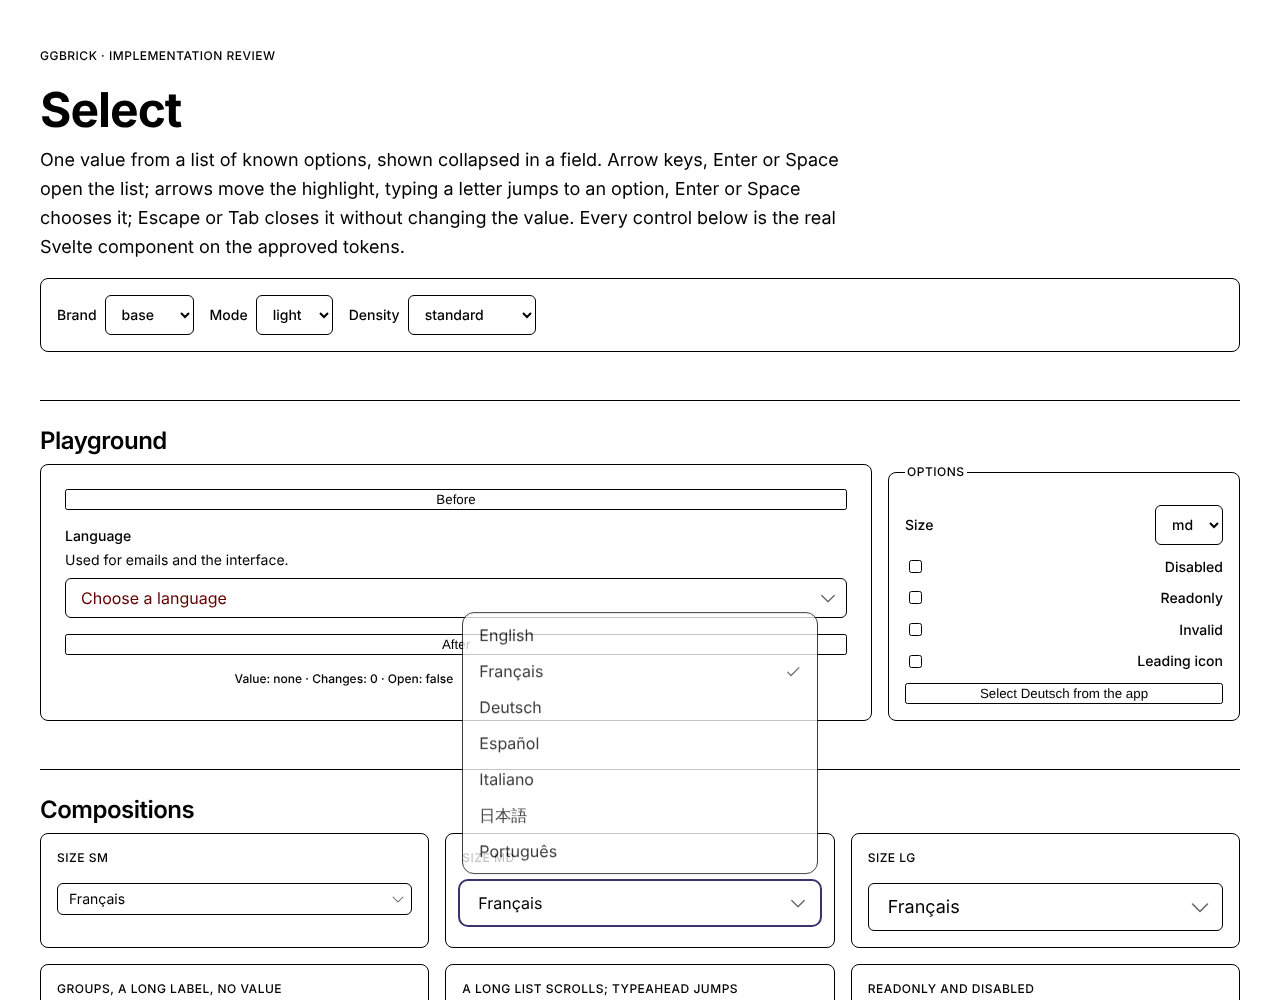
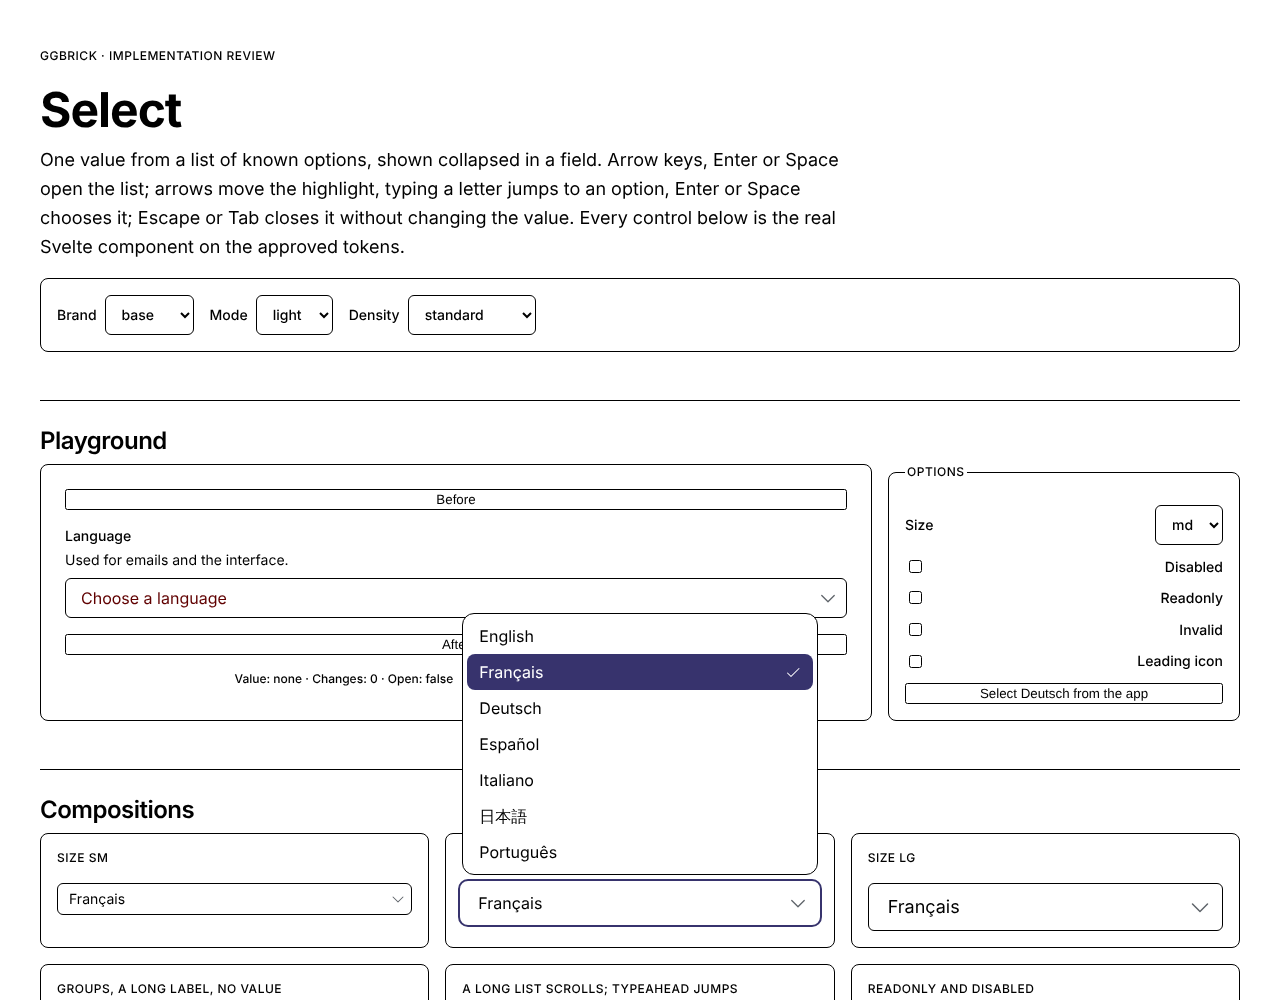
Select and Combobox: the highlighted option keeps its label in forced colors (no Canvas backplate); Toolbar overflow test waits for the layout; wave 4 evidence
Claude-Session: https://claude.ai/code/session_0156c545pPRcTHotAjG2D8Qd

Changed region(s): [[0.3438, 0.62, 0.6562, 0.868]]

diff --git a/tests/browser/combobox.spec.ts b/tests/browser/combobox.spec.ts
@@ -227,7 +227,7 @@ test('computed values match the resolved tokens: field sizes and conditions, pan
   report.write('combobox');
 });
 
-test('forced colors keep the field boundary and show the focus; capture with the list open', async ({ page }) => {
+test('forced colors keep the field boundary, show the focus and the highlighted label', async ({ page }) => {
   await page.emulateMedia({ forcedColors: 'active' });
   const field = root(page, 'size-md').locator('.ggb-combobox__field');
   const outline = () =>
@@ -244,6 +244,12 @@ test('forced colors keep the field boundary and show the focus; capture with the
   expect(focused.style).toBe('solid');
   expect(focused.width).toBeGreaterThanOrEqual(rest.width);
   expect(focused.color).not.toBe(rest.color);
+  // The highlighted option paints its own system colors: no Canvas backplate hides its HighlightText label.
+  await expect(panelOf(page, 'size-md').locator('.ggb-combobox__option[data-highlighted]')).toHaveCSS(
+    'forced-color-adjust',
+    'none'
+  );
+  await page.waitForFunction(() => document.getAnimations().every((a) => a.playState !== 'running'));
   await capture(page, 'reports/components/combobox/svelte/forced-colors.png');
 });
 

diff --git a/tests/browser/select.spec.ts b/tests/browser/select.spec.ts
@@ -306,7 +306,9 @@ test('computed values match the resolved tokens: trigger sizes and conditions, p
   report.write('select');
 });
 
-test('focus ring whatever the modality; forced colors keep the boundary and show the highlight', async ({ page }) => {
+test('focus ring whatever the modality; forced colors keep the boundary and show the highlighted label', async ({
+  page
+}) => {
   const tokens = tokensFor('base-light-standard');
   await page.click('#size-md');
   await page.keyboard.press('Escape');
@@ -316,6 +318,9 @@ test('focus ring whatever the modality; forced colors keep the boundary and show
   expect(ring).toEqual({ style: 'solid', color: rgb(tokens['color.focus.ring']) });
   await page.emulateMedia({ forcedColors: 'active' });
   await page.keyboard.press('ArrowDown');
+  // The highlighted option paints its own system colors: no Canvas backplate hides its HighlightText label.
+  await expect(page.locator('.ggb-select__option[data-highlighted]').first()).toHaveCSS('forced-color-adjust', 'none');
+  await page.waitForFunction(() => document.getAnimations().every((a) => a.playState !== 'running'));
   await capture(page, `${out}/forced-colors.png`);
 });
 

diff --git a/tests/browser/toolbar.spec.ts b/tests/browser/toolbar.spec.ts
@@ -198,11 +198,18 @@ test('overflow: the More trigger stays inside the toolbar; a danger item keeps i
 }) => {
   for (const width of [390, 340]) {
     await page.setViewportSize({ width, height: 900 });
-    const fits = await page.locator('#play').evaluate((bar) => {
-      const more = bar.querySelector('.ggb-toolbar__overflow')!.getBoundingClientRect();
-      return more.right <= bar.getBoundingClientRect().right + 0.5;
-    });
-    expect(fits, `${width}`).toBe(true);
+    // Measured once the toolbar's resize observer has moved the controls (it runs before the next paint, so a reader
+    // never sees the intermediate layout; a measure taken right after the resize can).
+    await expect
+      .poll(
+        () =>
+          page.locator('#play').evaluate((bar) => {
+            const more = bar.querySelector('.ggb-toolbar__overflow')!.getBoundingClientRect();
+            return more.right <= bar.getBoundingClientRect().right + 0.5;
+          }),
+        { message: `${width}` }
+      )
+      .toBe(true);
   }
   await page.setViewportSize({ width: 1280, height: 1000 });
   await page.locator('#wrap .ggb-toolbar__overflow button').first().click();

diff --git a/packages/svelte/src/components/combobox/combobox.css b/packages/svelte/src/components/combobox/combobox.css
@@ -290,9 +290,12 @@
     .ggb-combobox__panel {
       border: 1px solid CanvasText;
     }
+    /* System colors already; none keeps the browser from painting a Canvas backplate behind the label, which
+       would hide the HighlightText. */
     .ggb-combobox__option[data-highlighted] {
       background: Highlight;
       color: HighlightText;
+      forced-color-adjust: none;
     }
     .ggb-combobox__option-check {
       color: currentColor;

diff --git a/packages/svelte/src/components/select/select.css b/packages/svelte/src/components/select/select.css
@@ -265,9 +265,12 @@
     .ggb-select__panel {
       border: 1px solid CanvasText;
     }
+    /* System colors already; none keeps the browser from painting a Canvas backplate behind the label, which
+       would hide the HighlightText. */
     .ggb-select__option[data-highlighted] {
       background: Highlight;
       color: HighlightText;
+      forced-color-adjust: none;
     }
     .ggb-select__option-check {
       color: currentColor;
